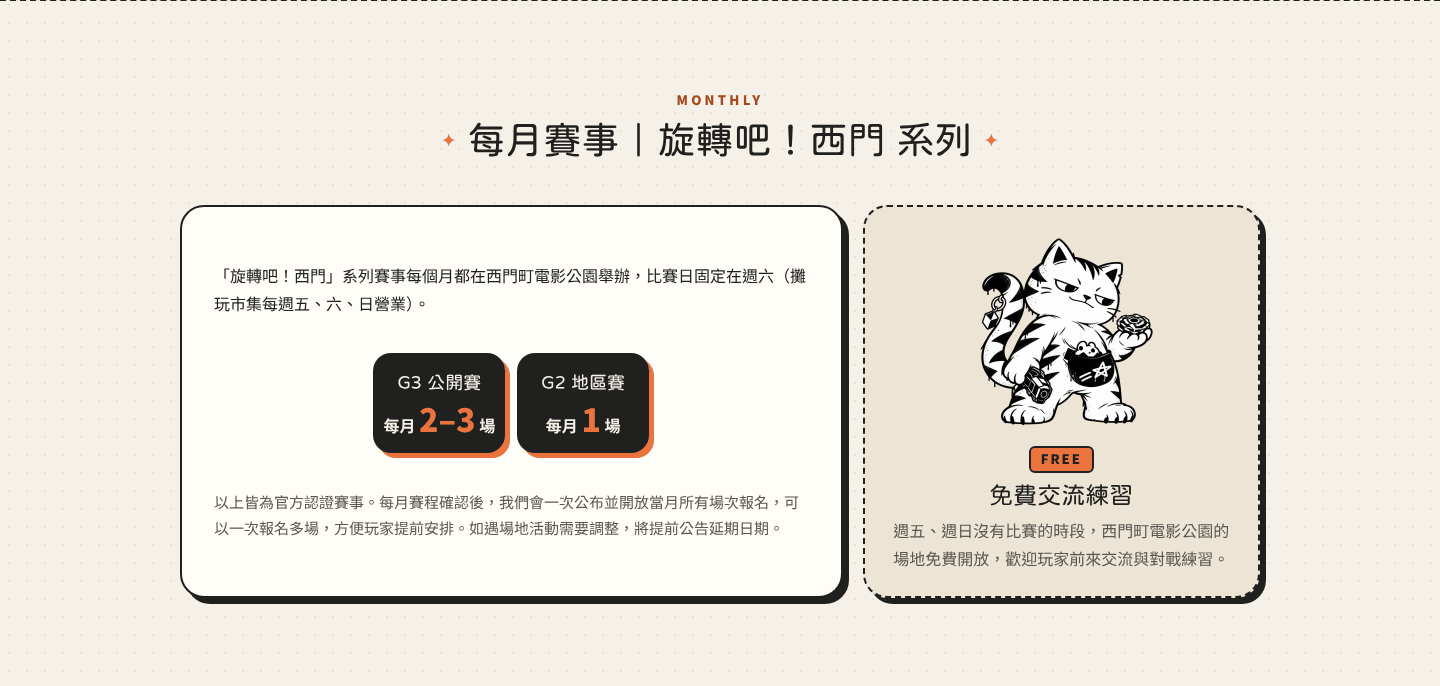
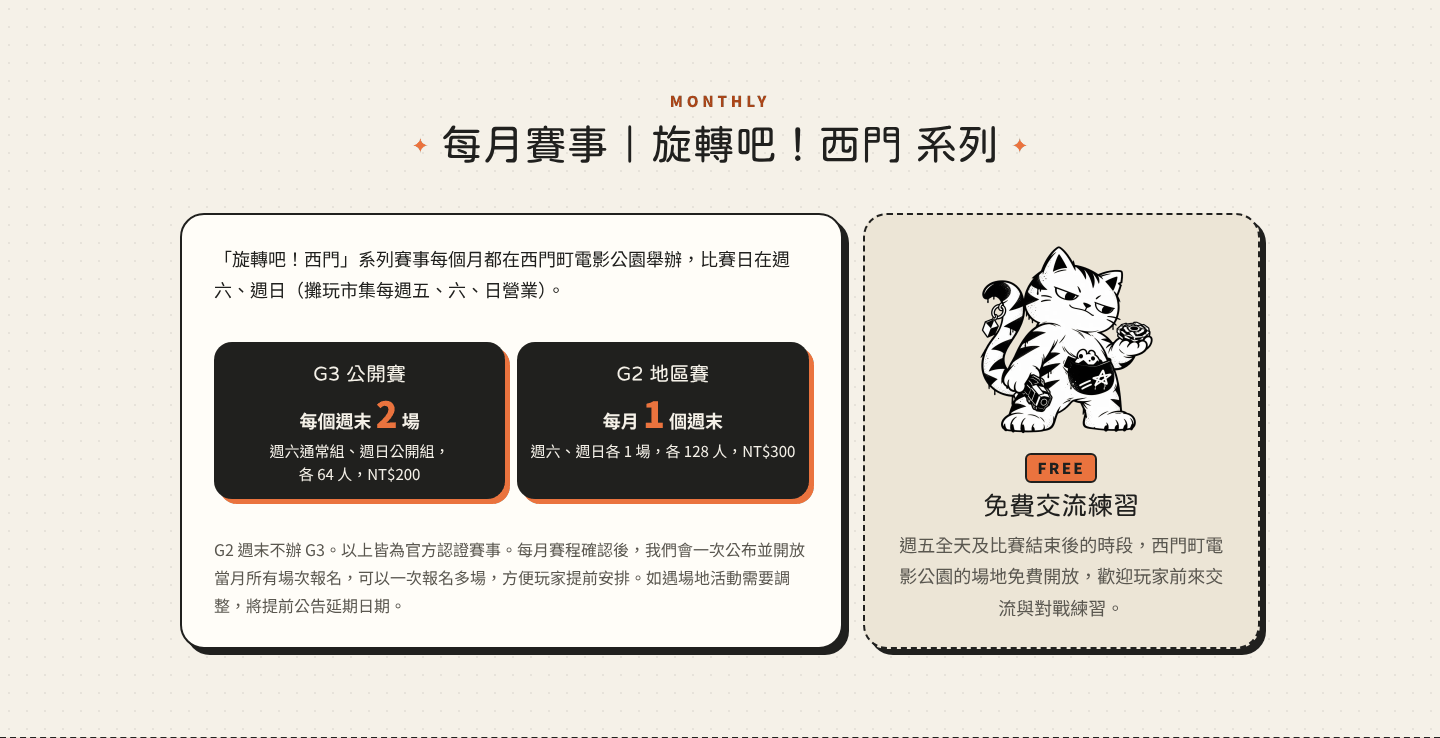
Update the site for the new race format
- /cup/: two-day first event (11/28 Sat 通常組 6–12, 11/29 Sun 公開組),
  64 players a day, NT$200; new schedule 13:30 check-in and draw,
  14:00 check-in closes and opening, 14:10 start, 17:00 awards, then
  free play; monthly events now G3 every weekend (Sat/Sun) and G2 one
  weekend a month (128 each, NT$300, no G3 that weekend); free practice
  on Fridays and after matches; FAQ, title, meta and OG image updated.
- Homepage: banner date 11/28（六）–11/29（日） and new monthly line;
  FOR VENDORS intro and first two cards replaced with the new copy.
- Remove the old 12+, 128, NT$250, 14:30/15:00/19:15 and Saturday-only
  wording; refresh screenshots.

Claude-Session: https://claude.ai/code/session_012dQHuckgmktwtxDEBvdD1o

diff --git a/cup/index.html b/cup/index.html
@@ -4,8 +4,8 @@
   <meta charset="utf-8">
   <meta name="viewport" content="width=device-width, initial-scale=1">
 
-  <title>旋轉吧！西門｜西門盃 第一屆公開循環賽 BEYBLADE X 戰鬥陀螺 G3 公開賽 11/28（六）｜攤玩市集</title>
-  <meta name="description" content="旋轉吧！西門｜西門盃 第一屆公開循環賽（G3 官方認證賽事），2026/11/28（六）在西門町電影公園舉行。限 12 歲以上，名額 128 人，報名費每人 NT$250，觀賽免費。報名即將開放。每月舉辦 G3／G2 官方認證賽事。">
+  <title>旋轉吧！西門｜西門盃 第一屆公開循環賽 BEYBLADE X 戰鬥陀螺 G3 公開賽 11/28（六）–11/29（日）｜攤玩市集</title>
+  <meta name="description" content="旋轉吧！西門｜西門盃 第一屆公開循環賽（G3 官方認證賽事），2026/11/28（六）–11/29（日）在西門町電影公園舉行。週六通常組（6–12 歲）、週日公開組，每天 64 人，報名費每人 NT$200，觀賽免費。報名即將開放。每個週末舉辦 G3、每月一個週末舉辦 G2 官方認證賽事。">
   <meta name="theme-color" content="#F5F1E8">
   <link rel="canonical" href="https://tanwanmarket.com/cup/">
 
@@ -14,7 +14,7 @@
   <meta property="og:locale" content="zh_TW">
   <meta property="og:site_name" content="攤玩市集">
   <meta property="og:title" content="旋轉吧！西門｜西門盃 第一屆公開循環賽 BEYBLADE X 戰鬥陀螺 G3 公開賽">
-  <meta property="og:description" content="2026/11/28（六）西門町電影公園｜G3 官方認證賽事，名額 128 人，觀賽免費。報名即將開放。">
+  <meta property="og:description" content="2026/11/28（六）–11/29（日）西門町電影公園｜G3 官方認證賽事，週六通常組、週日公開組各 64 人，觀賽免費。報名即將開放。">
   <meta property="og:url" content="https://tanwanmarket.com/cup/">
   <meta property="og:image" content="https://tanwanmarket.com/assets/cup/og-cup.png">
   <meta property="og:image:width" content="1200">
@@ -22,7 +22,7 @@
   <meta property="og:image:alt" content="旋轉吧！西門字標、西門盃 第一屆公開循環賽字卡與發射戰鬥陀螺的攤玩貓">
   <meta name="twitter:card" content="summary_large_image">
   <meta name="twitter:title" content="旋轉吧！西門｜西門盃 第一屆公開循環賽 BEYBLADE X 戰鬥陀螺 G3 公開賽">
-  <meta name="twitter:description" content="2026/11/28（六）西門町電影公園｜G3 官方認證賽事，報名即將開放。">
+  <meta name="twitter:description" content="2026/11/28（六）–11/29（日）西門町電影公園｜G3 官方認證賽事，報名即將開放。">
   <meta name="twitter:image" content="https://tanwanmarket.com/assets/cup/og-cup.png">
 
   <link rel="icon" type="image/png" href="../assets/favicon.png">
@@ -80,8 +80,8 @@
           <p class="cup-sub">BEYBLADE X 戰鬥陀螺 G3 公開賽</p>
 
           <ul class="hero-facts">
-            <li><span class="fact-icon" aria-hidden="true">📅</span>2026/11/28（六）</li>
-            <li><span class="fact-icon" aria-hidden="true">⏰</span>15:00 開賽</li>
+            <li><span class="fact-icon" aria-hidden="true">📅</span>2026/11/28（六）–11/29（日）</li>
+            <li><span class="fact-icon" aria-hidden="true">⏰</span>14:10 開賽</li>
             <li><span class="fact-icon" aria-hidden="true">📍</span>西門町電影公園</li>
           </ul>
 
@@ -107,12 +107,16 @@
 
         <div class="cup-when">
           <div class="schedule cup-schedule">
-            <h3>2026/11/28（六）賽程</h3>
+            <ul class="cup-days">
+              <li><span class="cup-day-date">11/28（六）</span><span class="cup-day-group">通常組<small>6–12 歲</small></span></li>
+              <li><span class="cup-day-date">11/29（日）</span><span class="cup-day-group">公開組</span></li>
+            </ul>
+            <h3>賽程（兩天相同）</h3>
             <ol class="timeline cup-timeline">
-              <li><time>13:30</time><span>開始報到<small>現場出示 QR 電子票券</small></span></li>
-              <li><time>14:30</time><span>報到截止</span></li>
-              <li class="is-key"><time>15:00</time><span>開賽</span></li>
-              <li><time>19:15</time><span>頒獎</span></li>
+              <li><time>13:30</time><span>開始報到與抽籤<small>出示 QR 電子票券</small></span></li>
+              <li><time>14:00</time><span>報到截止<small>開幕與規則宣導</small></span></li>
+              <li class="is-key"><time>14:10</time><span>開賽</span></li>
+              <li><time>17:00</time><span>頒獎<small>之後開放自由對戰交流</small></span></li>
             </ol>
             <p class="cup-note">當天 14:00–20:00 攤玩市集同時營業，一般入場和觀賽都免費。</p>
           </div>
@@ -150,20 +154,20 @@
         <div class="cup-entry">
           <article class="cup-stat">
             <h3>名額</h3>
-            <p class="cup-stat-num">128<span>人</span></p>
-            <p class="cup-stat-note">額滿為止</p>
+            <p class="cup-stat-num">64<span>人</span></p>
+            <p class="cup-stat-note">每天・額滿為止</p>
           </article>
           <article class="cup-stat">
             <h3>報名費</h3>
-            <p class="cup-stat-num"><span class="cup-stat-unit">NT$</span>250</p>
+            <p class="cup-stat-num"><span class="cup-stat-unit">NT$</span>200</p>
             <p class="cup-stat-note">每人</p>
           </article>
           <article class="rule-card cup-entry-card">
             <h3>參賽資格</h3>
             <ul>
-              <li>限 12 歲以上玩家參加</li>
-              <li>完成線上報名購票，當天 13:30–14:30 憑 QR 電子票券報到</li>
-              <li>詳細組別將於報名開放時公布</li>
+              <li>週六（11/28）通常組：限 6–12 歲</li>
+              <li>週日（11/29）公開組：資格依官方公告</li>
+              <li>完成線上報名購票，當天 13:30–14:00 憑 QR 電子票券報到</li>
             </ul>
           </article>
         </div>
@@ -237,19 +241,19 @@
 
         <div class="cup-monthly">
           <article class="cup-card cup-monthly-main">
-            <p>「旋轉吧！西門」系列賽事每個月都在西門町電影公園舉辦，比賽日固定在週六（攤玩市集每週五、六、日營業）。</p>
+            <p>「旋轉吧！西門」系列賽事每個月都在西門町電影公園舉辦，比賽日在週六、週日（攤玩市集每週五、六、日營業）。</p>
             <ul class="cup-monthly-types">
-              <li><span class="cup-monthly-name">G3 公開賽</span><span class="cup-monthly-count">每月 <strong>2–3</strong> 場</span></li>
-              <li><span class="cup-monthly-name">G2 地區賽</span><span class="cup-monthly-count">每月 <strong>1</strong> 場</span></li>
+              <li><span class="cup-monthly-name">G3 公開賽</span><span class="cup-monthly-count">每個週末 <strong>2</strong> 場</span><span class="cup-monthly-detail">週六通常組、週日公開組，<span class="nobr">各 64 人，NT$200</span></span></li>
+              <li><span class="cup-monthly-name">G2 地區賽</span><span class="cup-monthly-count">每月 <strong>1</strong> 個週末</span><span class="cup-monthly-detail">週六、週日各 1 場，<span class="nobr">各 128 人，NT$300</span></span></li>
             </ul>
-            <p class="cup-monthly-note">以上皆為官方認證賽事。每月賽程確認後，我們會一次公布並開放當月所有場次報名，可以一次報名多場，方便玩家提前安排。如遇場地活動需要調整，將提前公告延期日期。</p>
+            <p class="cup-monthly-note">G2 週末不辦 G3。以上皆為官方認證賽事。每月賽程確認後，我們會一次公布並開放當月所有場次報名，可以一次報名多場，方便玩家提前安排。如遇場地活動需要調整，將提前公告延期日期。</p>
           </article>
           <article class="cup-card cup-practice">
             <img class="cup-card-cat" src="../assets/cup/cat-challenge.webp" alt="攤玩貓拿著戰鬥陀螺，等著交流對戰" width="800" height="800" loading="lazy">
             <div>
               <p class="cup-practice-tag">FREE</p>
               <h3>免費交流練習</h3>
-              <p>週五、週日沒有比賽的時段，西門町電影公園的場地免費開放，歡迎玩家前來交流與對戰練習。</p>
+              <p>週五全天及比賽結束後的時段，西門町電影公園的場地免費開放，歡迎玩家前來交流與對戰練習。</p>
             </div>
           </article>
         </div>
@@ -267,7 +271,7 @@
         <div class="faq-list">
           <details class="faq">
             <summary>怎麼報名？</summary>
-            <div class="faq-body"><p>報名開放後線上購票，完成後會收到 QR 電子票券。比賽當天 13:30 開始報到、14:30 報到截止，現場出示 QR 電子票券即可。</p></div>
+            <div class="faq-body"><p>報名開放後線上購票，完成後會收到 QR 電子票券。比賽當天 13:30 開始報到、14:00 報到截止，現場出示 QR 電子票券即可。</p></div>
           </details>
           <details class="faq">
             <summary>要帶什麼？</summary>
@@ -279,11 +283,11 @@
           </details>
           <details class="faq">
             <summary>多久舉辦一次比賽？</summary>
-            <div class="faq-body"><p>每個月都有比賽：每月 2–3 場 G3 公開賽、1 場 G2 地區賽，都在週六舉行。當月賽程確認後會一次開放報名，可以一次報名多場。請追蹤 LINE 官方帳號 <a href="https://line.me/R/ti/p/@238nrzdb" target="_blank" rel="noopener">@238nrzdb<span class="sr-only">（另開新分頁）</span></a> 取得最新公告。</p></div>
+            <div class="faq-body"><p>每個週末都有比賽：週六通常組、週日公開組各 1 場 G3 公開賽；每月有 1 個週末改辦 G2 地區賽（週六、週日各 1 場），G2 週末不辦 G3。當月賽程確認後會一次開放報名，可以一次報名多場。請追蹤 LINE 官方帳號 <a href="https://line.me/R/ti/p/@238nrzdb" target="_blank" rel="noopener">@238nrzdb<span class="sr-only">（另開新分頁）</span></a> 取得最新公告。</p></div>
           </details>
           <details class="faq">
             <summary>沒有比賽的時候可以去練習嗎？</summary>
-            <div class="faq-body"><p>可以。週五、週日沒有比賽的時段，西門町電影公園的場地免費開放，歡迎來交流與對戰練習。</p></div>
+            <div class="faq-body"><p>可以。週五全天及比賽結束後的時段，西門町電影公園的場地免費開放，歡迎來交流與對戰練習。</p></div>
           </details>
           <details class="faq">
             <summary>怎麼聯絡主辦單位？</summary>

diff --git a/index.html b/index.html
@@ -104,9 +104,9 @@
               </picture>
             </p>
             <div class="cup-promo-info">
-              <p class="cup-promo-meta"><span>BEYBLADE X 戰鬥陀螺 G3 公開賽</span><span class="cup-promo-date">11/28（六）</span></p>
+              <p class="cup-promo-meta"><span>BEYBLADE X 戰鬥陀螺 G3 公開賽</span><span class="cup-promo-date"><span class="nobr">11/28（六）</span><span class="nobr">–11/29（日）</span></span></p>
               <span class="cup-promo-cta">看賽事資訊 →</span>
-              <p class="cup-promo-monthly">每月都有 G3 公開賽與 G2 地區賽</p>
+              <p class="cup-promo-monthly"><span class="nobr">每個週末都有 G3 公開賽，</span><span class="nobr">每月一個週末 G2 地區賽</span></p>
               <p class="cup-promo-co">協辦：麗嬰國際、Funbox Toys</p>
             </div>
           </div>
@@ -214,18 +214,18 @@
         </header>
 
         <div class="vendors-why-intro">
-          <p class="lead">攤玩市集每月固定舉辦「旋轉吧！西門」戰鬥陀螺官方認證賽事，週六有 G3 公開賽或 G2 地區賽，週五、週日開放免費練習，玩家和陪同的家人整天都在現場，逛攤、用餐、買配件都在市集裡完成。</p>
+          <p class="lead">攤玩市集每個週末舉辦「旋轉吧！西門」戰鬥陀螺官方認證賽事，週六、週日都有 G3 公開賽或 G2 地區賽，週五開放免費練習，玩家和陪同的家人整天都在現場，逛攤、用餐、買配件都在市集裡完成。</p>
           <img class="vendors-why-cat" src="assets/cup/cat-watch.webp" alt="" width="800" height="800" loading="lazy">
         </div>
 
         <ul class="vendors-why-cards">
           <li class="vendors-why-card">
-            <strong>128 位選手</strong>
-            <span>11/28 G3 公開賽，從 13:30 報到到 19:15 頒獎，選手整個下午都在現場</span>
+            <strong>每週末 128 位選手</strong>
+            <span>週六通常組、週日公開組各 64 位，<span class="nobr">從 13:30 報到到 17:00 頒獎</span></span>
           </li>
           <li class="vendors-why-card">
-            <strong>每月 3–4 場</strong>
-            <span>固定週六 2–3 場 G3＋1 場 G2，<span class="nobr">不是一次性的活動</span></span>
+            <strong>每月 G2 地區賽</strong>
+            <span>G2 週末週六、週日各 128 位選手，<span class="nobr">不是一次性的活動</span></span>
           </li>
           <li class="vendors-why-card">
             <strong>官方認證</strong>

diff --git a/cup/cup.css b/cup/cup.css
@@ -234,6 +234,31 @@
   letter-spacing: .15em;
 }
 
+/* ---------- 新賽制：兩天組別、每月賽事說明 ---------- */
+.cup-days {
+  list-style: none;
+  margin: 0 0 16px;
+  padding: 0;
+  display: grid;
+  grid-template-columns: 1fr 1fr;
+  gap: 10px;
+}
+.cup-days li {
+  display: flex;
+  flex-direction: column;
+  align-items: center;
+  justify-content: center;
+  padding: 10px 8px;
+  background: var(--ink);
+  color: var(--paper);
+  border-radius: 14px;
+  text-align: center;
+}
+.cup-day-date { font-weight: 900; }
+.cup-day-group { font-family: var(--font-fun); font-size: 1.25rem; color: var(--orange); }
+.cup-day-group small { display: block; font-family: var(--font-body); font-size: .9375rem; font-weight: 700; color: var(--paper); }
+.cup-monthly-detail { margin-top: 4px; font-size: .9375rem; line-height: 1.5; }
+
 /* ---------- 主辦與協辦 ---------- */
 .cup-org { padding: 32px 0; }
 .cup-org-list {
@@ -251,9 +276,18 @@
    平板以上
    ========================================================= */
 @media (min-width: 640px) {
-  .cup-timeline { grid-template-columns: repeat(4, 1fr); }
-  .cup-timeline span { flex-direction: column; font-size: 1.125rem; }
-  .cup-timeline time { font-size: 1.5rem; }
+  /* 賽程每格都有補充說明，維持直式時間軸比較好讀 */
+  .cup-timeline { grid-template-columns: 1fr; text-align: left; }
+  .cup-timeline li { grid-template-columns: 4.2em 1fr; gap: 12px; padding: 8px 0 8px 22px; align-content: normal; }
+  .cup-timeline li::before { left: 0; top: 50%; margin: -6px 0 0; }
+  .cup-timeline li:not(:last-child)::after {
+    left: 5px; top: calc(50% + 8px);
+    width: 0; height: calc(100% - 16px);
+    border-top: 0;
+    border-left: 2px dashed var(--ink);
+  }
+  .cup-timeline small { display: inline-block; margin: 0; width: auto; }
+  .cup-timeline time { font-size: 1.25rem; }
   .cup-entry { grid-template-columns: 1fr 1fr; }
   .cup-entry-card { grid-column: 1 / -1; }
 }

diff --git a/styles.css b/styles.css
@@ -320,7 +320,7 @@ a { color: inherit; }
 .cup-promo-title { margin: 14px auto 6px; }
 .cup-promo-title img { width: min(100%, 440px); margin: 0 auto; }
 .cup-promo-meta { font-weight: 900; font-size: 1.1875rem; line-height: 1.5; }
-.cup-promo-meta span { display: block; }
+.cup-promo-meta > span { display: block; }
 .cup-promo-date { font-size: 1.625rem; letter-spacing: .04em; }
 .cup-promo-cta {
   display: inline-block;
@@ -938,7 +938,7 @@ a { color: inherit; }
   .cup-promo-title { grid-area: title; margin: 10px 0 0; }
   .cup-promo-title img { margin: 0; }
   .cup-promo-info { grid-area: info; padding-left: 28px; border-left: 2.5px dashed var(--ink); }
-  .cup-promo-meta span:first-child { white-space: nowrap; font-size: clamp(1rem, 1.3vw, 1.1875rem); }
+  .cup-promo-meta > span:first-child { white-space: nowrap; font-size: clamp(1rem, 1.3vw, 1.1875rem); }
   .cup-promo-cat { width: 100%; margin: 0; align-self: end; }
   .info-layout { grid-template-columns: 1.1fr .9fr; gap: 40px; }
   .info-art img { width: min(100%, 520px); }
